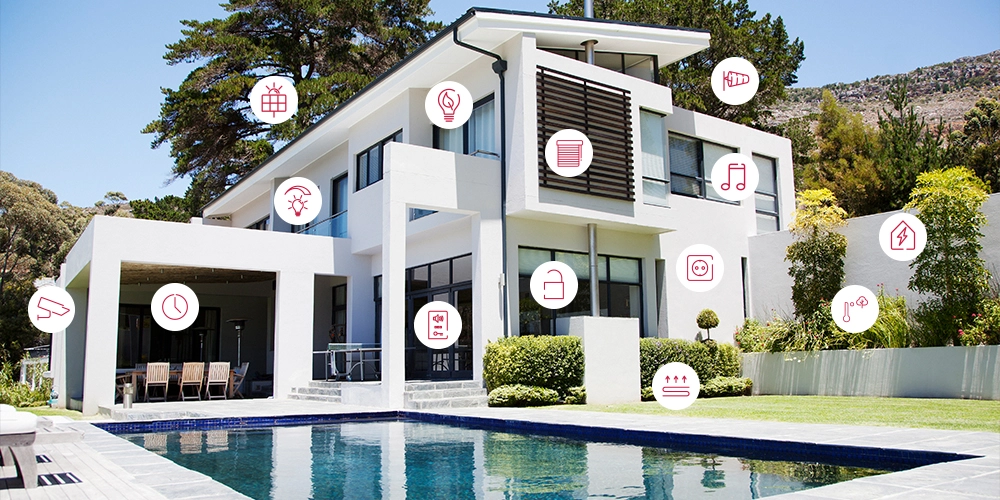
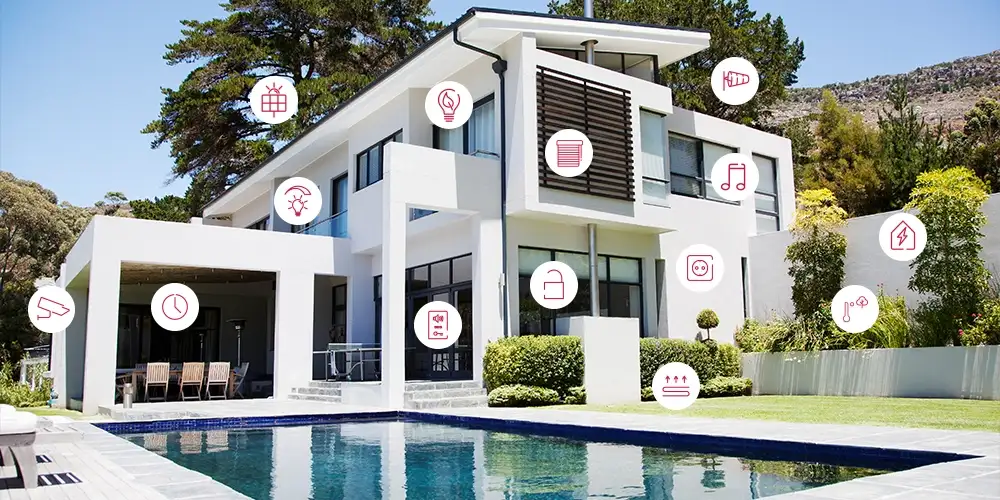
perf(home): phase 3.1 — cut initial image weight ~3.5MB→~0.75MB
- Add 720x480 q72 card variants for solution/industry grid thumbnails
  (assets/solutions/cards/*); originals (1620px) kept for detail pages
- solutions-grid + industries-grid derive card-variant path w/ safe fallback
- Re-encode hero poster video-keeper.webp 300KB→82KB (q60, masked by dark
  gradient overlay) and preload it on home (LCP element)
- Convert hero decorative PNGs → WebP (313KB→41KB), stay lazy

Changed region(s): [[0.961, 0.36, 0.992, 0.39], [0.713, 0.0, 0.744, 0.03]]

diff --git a/server/routes/pages.js b/server/routes/pages.js
@@ -249,12 +249,16 @@ router.get("/", (req, res) => {
     latestPosts,
     ...baseRenderData(req),
     structuredData,
-    meta: withMeta(req, applyPageSeo("/", {
+    meta: withMeta(req, {
+      ...applyPageSeo("/", {
       title: "أتكس | حلول إنترنت الأشياء - المنازل الذكية، الفنادق الذكية، المكاتب الذكية في السعودية",
       description:
         "أتكس مزود سعودي لحلول إنترنت الأشياء: المنازل الذكية، الفنادق الذكية، المكاتب الذكية، المباني الذكية، إضائة الواجهات الخارجية للمباني، نظام المكنسة المركزية، حلول شحن السيارات الكهربائية، الانظمة الامنية التقنية، انظمة تقنية المعلومات. Smart Homes, Smart Hotels, Smart Offices, Smart Buildings, Building Exterior Lighting, Central Vacuum System, Electric Vehicle Charging, Security Systems, IT Systems in Saudi Arabia.",
       ogImage: absoluteUrl(req, "/assets/solutions/smart-building.webp"),
-    })),
+      }),
+      // Preload the hero poster (LCP element — CSS background on .heroVideo__media)
+      preloadImage: "/assets/hero-video/video-keeper.webp",
+    }),
   });
 });
 
